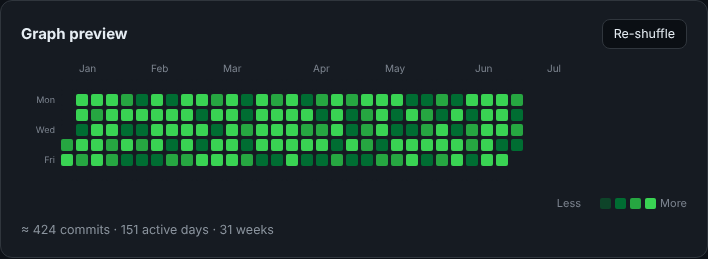
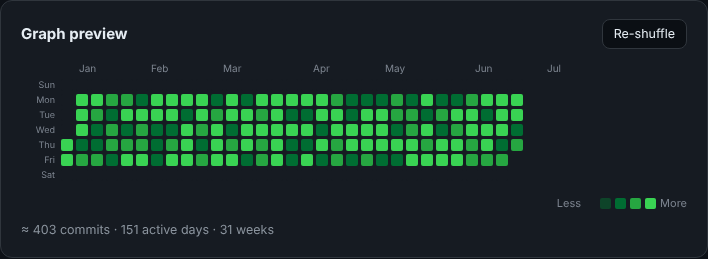
feat: label every weekday row in the graph preview
Claude-Session: https://claude.ai/code/session_013iuw2n5vpE67pTHVTfRGNT

diff --git a/codeJen.html b/codeJen.html
@@ -123,9 +123,13 @@
         <div class="graph-months" id="graphMonths"></div>
         <div class="graph-row">
           <div class="graph-days">
+            <span style="grid-row:1">Sun</span>
             <span style="grid-row:2">Mon</span>
+            <span style="grid-row:3">Tue</span>
             <span style="grid-row:4">Wed</span>
+            <span style="grid-row:5">Thu</span>
             <span style="grid-row:6">Fri</span>
+            <span style="grid-row:7">Sat</span>
           </div>
           <div class="graph-grid" id="graphGrid"></div>
         </div>
